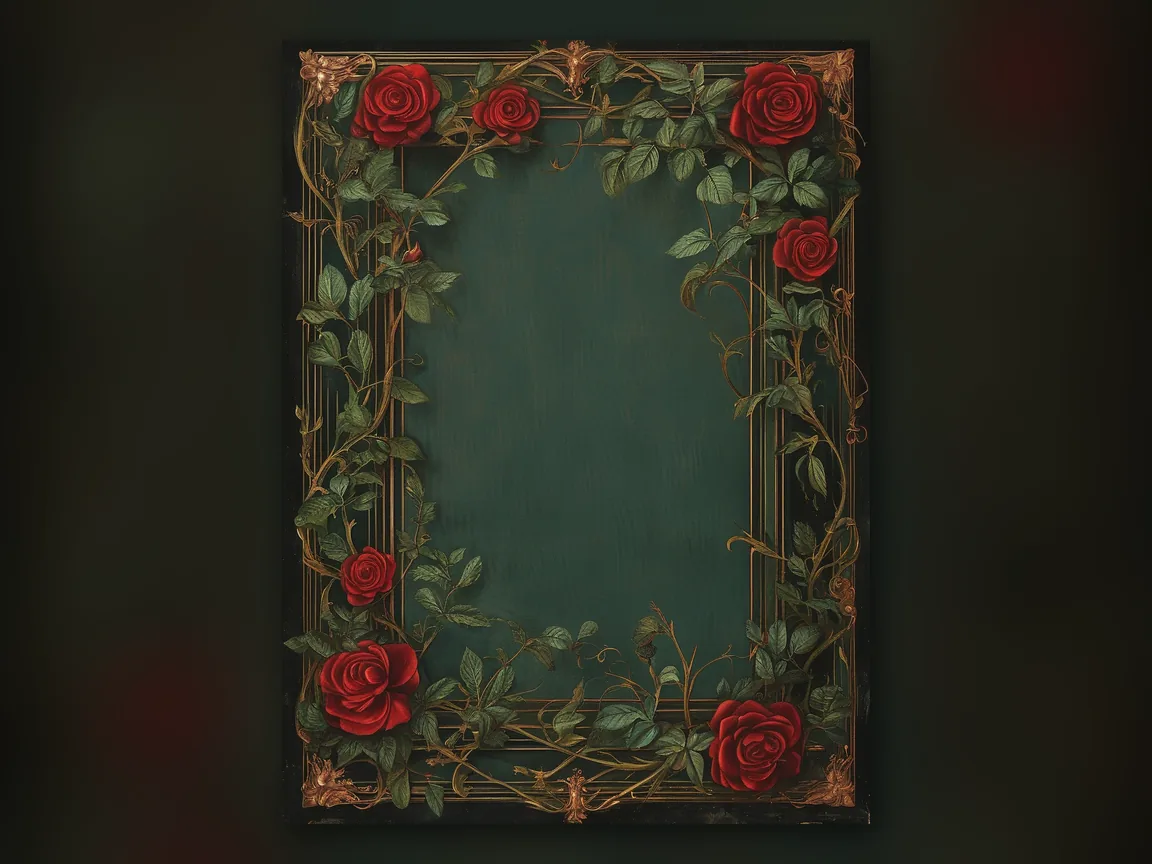
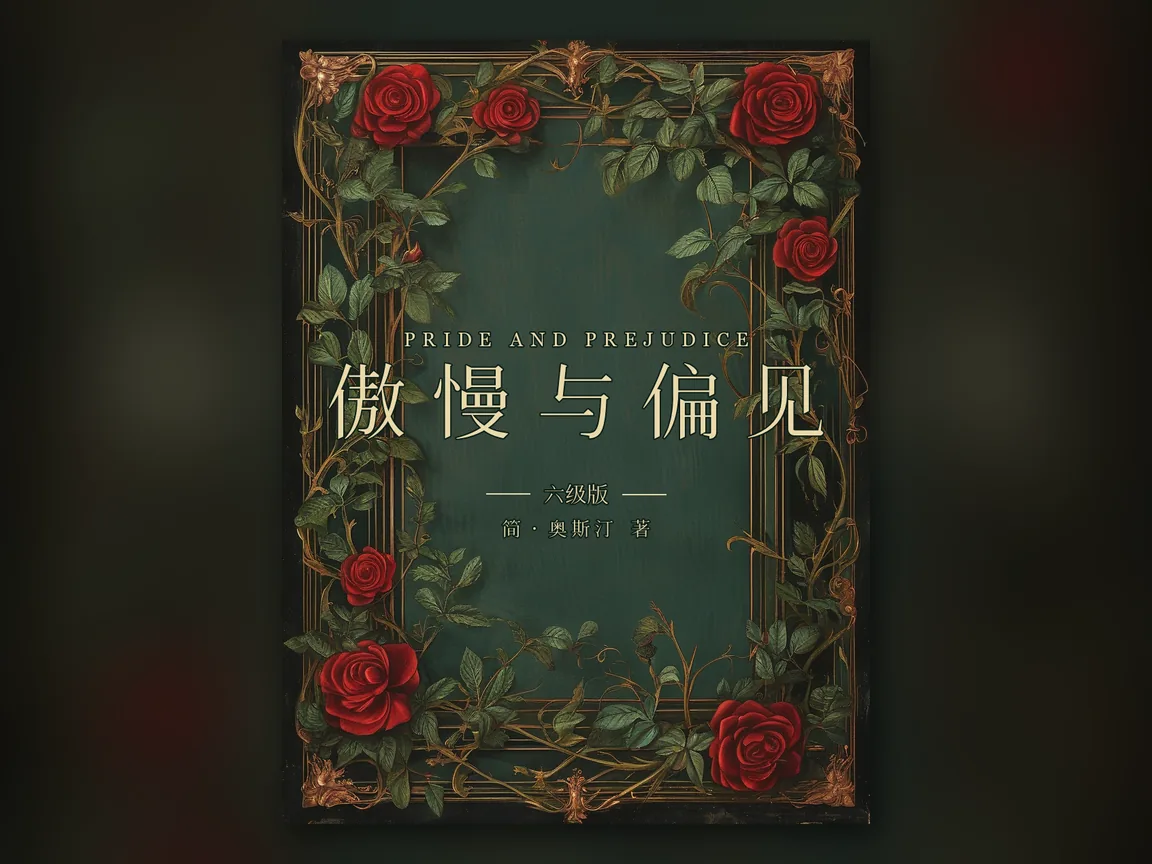
feat(lang): P&P 站内入口直进试玩 + 购买套件移除 + 封面题字成稿
- storeEnter 精简为直跳 /story/pp6/（登录/购买全部移至产物内试玩门）
- 移除站内 10 个购买函数 + STORE_PENDING_KEY + pageshow 查单监听
- 详情定价文案补"第 1 章免费试读"
- store_pp6.webp 改 cover_C 题字版重新合成（原误用无字原画）
- index.html lang-play.js?v=20261004b

diff --git a/assets/lang-play.js b/assets/lang-play.js
@@ -83,7 +83,7 @@
     var libFilter = { cat: "", gender: "" };
     /* 站内上架内容商品(2026-10-04 《傲慢与偏见(六级版)》):预写分支故事与 lang_cards「AI 每轮填空」
        范式不兼容,不进 PB lang_cards——由本文件合成官方卡、特判进入(storeProduct → worker STORY_PLANS)。
-       站内只做入口/权限引导/购买弹层;真正的付费门在产物内(/story/pp6/,同一套 access 接口双保险) */
+       站内只做入口(点卡直进 /story/pp6/ 试玩第 1 章);登录与购买全部在产物内解锁弹层完成(2026-10-04 精简) */
     var STORE_PRODUCT = {
         id: "store_pp6", title_zh: "傲慢与偏见（六级版）", title: "Pride and Prejudice · CET-6",
         category_zh: "学习剧本", theme: "classic", lang: "en", order: -1,
@@ -91,7 +91,6 @@
         storeProduct: "pp6", storePrice: "5"
     };
     var STORE_STORY_URL = "https://bitlife.blupure.cn/story/pp6/";
-    var STORE_PENDING_KEY = "yt_store_pp6_site_pending_v1";   // 站内下单跳收银台前置:返回/重载后自动查单
     /* 主题图标复用文游首页同一套 lucide 描边（app.js cardEmoji），不再另维护一张 emoji 表 */
     function themeIcon(c) { return ScenarioCardViewService.cardEmoji(String((c && c.theme) || "")); }
     /* R1 恋爱攻略卡:love 标签/向别偏好(存 localStorage lang_gender_pref_v1,O2 服务端零改动);loveMatch 供推荐排序 */
@@ -268,7 +267,6 @@
             api.loadRemote();
             api.loadLangCards();
             api.renderHome();
-            window.addEventListener("pageshow", function () { api.storeResumePending(); });   // 上架商品:收银台返回后自动查单
         },
         refresh: function () {
             api.renderLangPicker();
@@ -1256,7 +1254,7 @@
                     '<span class="scenario-badge">¥' + api.esc(String(c.storePrice || "")) + ' · 会员免费</span>' +
                     "</div>" +
                     '<div class="lgd-desc"><b>内容：</b>《傲慢与偏见》完整版——全 61 章分支故事，六级重点词嵌入原文：点句看整句译文、点词看释义，生词一键收进站内「我的生词本」。</div>' +
-                    '<div class="lgd-desc"><b>定价：</b>¥' + api.esc(String(c.storePrice || "")) + ' 买断，永久阅读；云吞吞会员免费玩（会员到期后，已购仍可玩）。</div>';
+                    '<div class="lgd-desc"><b>定价：</b>第 1 章免费试读；¥' + api.esc(String(c.storePrice || "")) + ' 买断，永久阅读；云吞吞会员免费玩（会员到期后，已购仍可玩）。</div>';
             } else {
             var heroTxt = [String(idn.role || ""), String(idn.background || "")].filter(function (x) { return x; }).join("；").slice(0, 160);
             var summary = String(w.summary || "").replace(/\s+/g, " ").trim().slice(0, 340);
@@ -1304,141 +1302,10 @@
             window.LangEngine.enter(cid).catch(function () { hint("进入失败，请再点一次", "lang-lib-hint"); });
         },
         /* ==================== 上架商品入口(2026-10-04《傲慢与偏见(六级版)》) ====================
-           站内只做入场:权限检查 → 已购/会员跳 /story/pp6/(产物内付费门同接口双保险);
-           未登录走站内登录弹层;未购开购买弹层(微信直付,与产物内付费门同一套 pay 接口)。
-           守卫不能写 window.AuthService:它是 app.js 顶层 const,只在内联处理器与全局词法
-           环境里可见(同 renderMemberCta 的注释),用裸标识符 + typeof 包裹 */
+           站内只做入场:点卡直接进 /story/pp6/ 试玩第 1 章;登录与购买全部在产物内解锁弹层完成
+           (2026-10-04 精简:站内不再预检权限/不再弹购买层,未登录也能直接试玩第一章) */
         storeEnter: function () {
-            if (!token()) { api.storeLogin(); return; }
-            api.storeCheckAccess();
-        },
-        storeLogin: function () {
-            var opened = false;
-            try { if (typeof AuthService !== "undefined" && AuthService.openLogin) { AuthService.openLogin(); opened = true; } } catch (e) {}
-            hint(opened ? "登录后回来，再点「进入阅读」" : "登录后再来进入阅读", "lang-lib-hint");
-        },
-        storeCheckAccess: function () {
-            fetch(API_BASE + "/api/story/access?product=" + encodeURIComponent(STORE_PRODUCT.storeProduct), { headers: { "X-Auth-Token": "Bearer " + token() } })
-                .then(function (r) {
-                    if (r.status === 401) { api.storeLogin(); return null; }   // null = 已处理,别再弹支付
-                    return r.ok ? r.json() : null;
-                })
-                .then(function (d) {
-                    if (d === null) return;
-                    if (!d) { hint("网络异常，暂时无法确认权限，稍后再试", "lang-lib-hint"); return; }
-                    if (d.ok) { location.href = STORE_STORY_URL; return; }
-                    api.storeShowPay(d);
-                })
-                .catch(function () { hint("网络异常，暂时无法确认权限，稍后再试", "lang-lib-hint"); });
-        },
-        storePendingOrderNo: function () {
-            try {
-                var p = JSON.parse(localStorage.getItem(STORE_PENDING_KEY) || "null");
-                // 30 分钟前的 pending 视为过期:查单轮询只服务刚下单的这次跳转
-                if (p && p.orderNo && Date.now() - Number(p.ts || 0) < 30 * 60 * 1000) return p.orderNo;
-            } catch (e) {}
-            return "";
-        },
-        storeShowPay: function (d) {
-            api.storeClosePay();   // 重复打开先清旧的(连带停掉旧轮询)
-            var price = api.esc(String((d && d.price) || STORE_PRODUCT.storePrice));
-            var wrap = document.createElement("div");
-            wrap.className = "modal-overlay";
-            wrap.id = "store-pay-modal";
-            wrap.style.display = "flex";
-            wrap.innerHTML = '<div class="modal-card">' +
-                '<div class="modal-title">' + api.esc(STORE_PRODUCT.title_zh) + '</div>' +
-                '<div class="list-sub" style="margin:0 0 10px;">会员免费畅玩；非会员 <b>¥' + price + '</b> 买断，永久有效。</div>' +
-                '<label style="display:flex;gap:8px;align-items:flex-start;font-size:12px;color:var(--sub);margin-bottom:12px;cursor:pointer;">' +
-                '<input id="store-adult-box" type="checkbox" style="margin-top:2px;">我已满 18 周岁，或已获得监护人同意，并知晓虚拟商品一经售出不退不换</label>' +
-                '<div id="store-pay-area" class="list-sub" style="min-height:18px;"></div>' +
-                '<div class="gender-actions">' +
-                '<button class="mini-btn ghost" onclick="LangController.storeMemberCta()">开通会员免费玩</button>' +
-                '<button class="mini-btn primary" id="store-buy-btn" onclick="LangController.storeStartPay()">微信支付 ¥' + price + '</button>' +
-                "</div>" +
-                '<div style="text-align:center;margin-top:10px;"><button class="mini-btn ghost" onclick="LangController.storeClosePay()">关闭</button></div>' +
-                "</div>";
-            document.body.appendChild(wrap);
-            var po = api.storePendingOrderNo();
-            if (po) {
-                var area = $("store-pay-area");
-                if (area) area.textContent = "已提交支付，正在确认到账结果…（未支付可重新发起购买）";
-                api.storePoll(po);
-            }
-        },
-        storeMemberCta: function () {
-            api.storeClosePay();
-            try { if (typeof MembershipService !== "undefined" && MembershipService.openPanel) MembershipService.openPanel(); } catch (e) {}
-        },
-        storeClosePay: function () {
-            api.storeStopPoll();
-            var m = $("store-pay-modal");
-            if (m && m.parentNode) m.parentNode.removeChild(m);
-        },
-        storeStartPay: function () {
-            var box = $("store-adult-box"), area = $("store-pay-area"), btn = $("store-buy-btn");
-            if (!box || !box.checked) { if (area) area.textContent = "请先勾选确认（合规要求）。"; return; }
-            if (!token()) { api.storeClosePay(); api.storeLogin(); return; }
-            if (api._storeCreating) return;   // 创建中,防双击重复下单
-            api._storeCreating = true;
-            if (btn) { btn.disabled = true; btn.style.opacity = ".6"; }
-            if (area) area.textContent = "正在创建订单…";
-            fetch(API_BASE + "/api/pay/create", {
-                method: "POST",
-                headers: { "Content-Type": "application/json", "X-Auth-Token": "Bearer " + token() },
-                body: JSON.stringify({ planId: STORE_PRODUCT.storeProduct, payType: "wxpay" })   // 支付宝未开通,统一微信
-            })
-                .then(function (r) { return r.json().catch(function () { return {}; }).then(function (j) { return { s: r.status, j: j }; }); })
-                .then(function (x) {
-                    api._storeCreating = false;
-                    if (btn) { btn.disabled = false; btn.style.opacity = "1"; }
-                    if (x.s === 401) { api.storeClosePay(); api.storeLogin(); return; }
-                    if (x.s !== 200 || (!x.j.jumpUrl && !x.j.qrUrl)) { if (area) area.textContent = (x.j && x.j.error) || "创建订单失败，请重试"; return; }
-                    try { localStorage.setItem(STORE_PENDING_KEY, JSON.stringify({ orderNo: x.j.orderNo, ts: Date.now() })); } catch (e) {}
-                    var isMobile = /Android|iPhone|iPad|iPod|Mobile|Windows Phone/i.test(navigator.userAgent || "");
-                    if (x.j.qrUrl && !isMobile) {
-                        // 桌面:虎皮椒扫码;移动端若显示二维码手机无法扫(与站内充值面板同款设备区分)
-                        if (area) area.innerHTML = '订单创建成功，请使用微信扫码支付<div style="margin:10px 0;"><img src="' + api.esc(x.j.qrUrl) + '" alt="微信支付二维码" style="width:180px;height:180px;display:block;margin:0 auto;border-radius:8px;background:#fff;padding:4px;"></div>支付完成后本页自动进入阅读（请保持本页打开）';
-                        api.storePoll(x.j.orderNo);
-                    } else if (x.j.jumpUrl) {
-                        if (area) area.innerHTML = '订单已创建，正在跳转微信收银台…<br><span style="font-size:12px;color:var(--sub);">支付完成后返回本页，会自动进入阅读。</span>';
-                        api.storePoll(x.j.orderNo);
-                        setTimeout(function () { location.href = x.j.jumpUrl; }, 900);
-                    } else if (area) area.textContent = "下单成功但未取到收银台链接，请重试";
-                })
-                .catch(function () {
-                    api._storeCreating = false;
-                    if (btn) { btn.disabled = false; btn.style.opacity = "1"; }
-                    if (area) area.textContent = "网络异常，请重试";
-                });
-        },
-        storePoll: function (orderNo) {
-            api.storeStopPoll();
-            var n = 0;
-            api._storePoll = setInterval(function () {
-                n++;
-                if (n > 400) { api.storeStopPoll(); return; }   // 20 分钟封顶
-                fetch(API_BASE + "/api/pay/status?out_trade_no=" + encodeURIComponent(orderNo), { headers: { "X-Auth-Token": "Bearer " + token() } })
-                    .then(function (r) { return r.ok ? r.json() : null; })
-                    .then(function (s) {
-                        var st = s && s.status;
-                        if (Array.isArray(st)) st = st[0];   // PB JSON 字段可能是数组(与充值面板同兼容)
-                        if (st === "paid") {
-                            api.storeStopPoll();
-                            try { localStorage.removeItem(STORE_PENDING_KEY); } catch (e) {}
-                            location.href = STORE_STORY_URL;
-                        }
-                    })
-                    .catch(function () {});
-            }, 3000);
-        },
-        storeStopPoll: function () { if (api._storePoll) { clearInterval(api._storePoll); api._storePoll = null; } },
-        /* 支付跳转返回/重载后自动查单(移动端 H5 收银台回来靠它放行进阅读;与产物内付费门同套路) */
-        storeResumePending: function () {
-            var po = api.storePendingOrderNo();
-            if (!po || !token()) return;
-            if (api._storePoll) return;   // 已有轮询在跑(弹层内)
-            api.storePoll(po);
+            location.href = STORE_STORY_URL;
         },
         loadLangCards: function (lang) {
             if (window.__LANG_CARDS_LOADING) return;

diff --git a/index.html b/index.html
@@ -1454,7 +1454,7 @@ setTimeout(function(){var b=document.getElementById("boot-screen");if(b&&!b.clas
 <script src="lib/qrcode.min.js" async></script>
 <script src="assets/app.js?v=20260929a"></script>
 <script src="assets/love-engine.js?v=20260924a"></script>
-<script src="assets/lang-play.js?v=20261004a"></script>
+<script src="assets/lang-play.js?v=20261004b"></script>
 <script src="assets/lang-aux.js?v=20260926o"></script>
 </body>
 </html>
